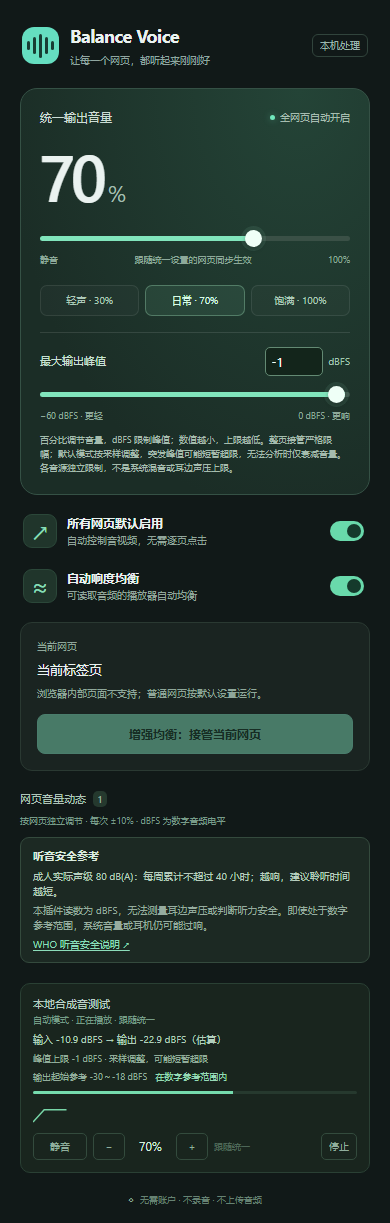
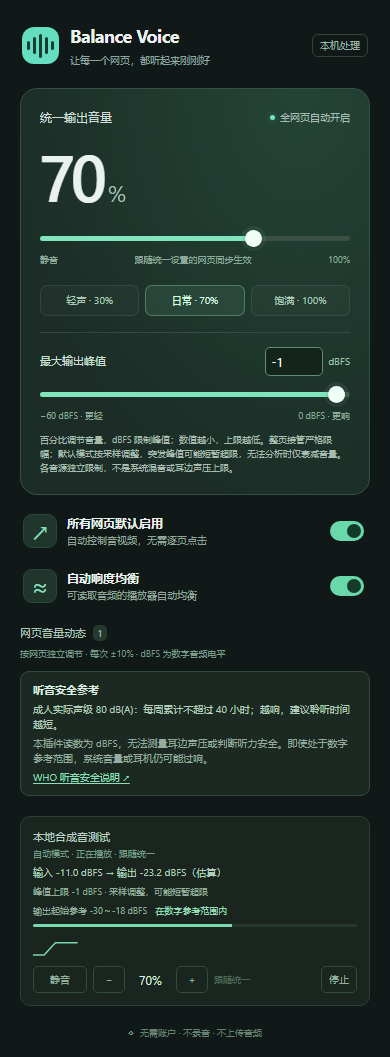
fix: hide redundant capture prompt in automatic mode

diff --git a/extension/popup.js b/extension/popup.js
@@ -55,13 +55,16 @@ function render(state) {
   }
   const enabled = state.sessions.some(session => session.tabId === currentTab?.id);
   const supported = /^https?:\/\//i.test(currentTab?.url || '');
+  // Default management is already enabled. Avoid offering a second enable action.
+  // Keep the card when a capture exists so users can always stop it.
+  document.querySelector('.current-card').hidden = state.settings.autoEnable && !enabled;
   $('status').textContent = state.settings.autoEnable ? '全网页自动开启'
     : state.sessions.length ? `${state.sessions.length} 个网页已接管` : '自动模式已关闭';
   document.querySelector('.live').classList.toggle('active', state.settings.autoEnable || state.sessions.length > 0);
   $('current-title').textContent = currentTab?.title || '当前标签页';
   $('current-hint').textContent = enabled
-    ? '整页音频均衡中，停止后回到默认模式。'
-    : supported ? state.settings.autoEnable ? '音视频默认自动控制；整页接管可处理 Web Audio。'
+    ? state.settings.autoEnable ? '整页音频均衡中，停止后回到默认模式。' : '整页音频均衡中，停止后恢复网页原始声音。'
+    : supported ? state.settings.autoEnable ? '网页状态和音量调节见下方列表。'
       : '默认模式已关闭，可开启或单独接管当前网页。' : '浏览器内部页面不支持；普通网页按默认设置运行。';
   $('toggle-current').textContent = enabled ? '停止整页接管' : '增强均衡：接管当前网页';
   $('toggle-current').classList.toggle('enabled', enabled);

diff --git a/extension/popup.html b/extension/popup.html
@@ -47,10 +47,10 @@
       <input class="switch" id="normalize" type="checkbox" role="switch" checked aria-label="自动响度均衡">
     </section>
 
-    <section class="current-card">
+    <section class="current-card" hidden>
       <div class="section-label">当前网页</div>
       <h2 id="current-title">正在读取网页…</h2>
-      <p id="current-hint">普通音视频默认自动控制；可选接管整页音频。</p>
+      <p id="current-hint">网页状态和音量调节见下方列表。</p>
       <button class="primary" id="toggle-current" disabled>增强均衡：接管当前网页</button>
     </section>
 

diff --git a/docs/USAGE.md b/docs/USAGE.md
@@ -10,15 +10,15 @@
 2. 点击「加载已解压的扩展程序」，选择本项目的 **`extension` 文件夹**。
 3. 在扩展菜单中固定 Balance Voice，打开一个正在播放声音的网页。
 4. 「所有网页默认启用」预设为开启，新网页里的普通音视频播放器会自动使用统一音量，无需逐页点击。
-5. 可在弹窗调整统一音量，或关闭「所有网页默认启用」。对于纯 Web Audio 页面，可使用「增强均衡：接管当前网页」。
+5. 可在弹窗调整统一音量，或关闭「所有网页默认启用」。对于纯 Web Audio 页面，可先关闭默认模式，再使用「增强均衡：接管当前网页」；接管后可重新开启默认模式。
 
-也可运行 `npm run package`，将 `dist/balance-voice-1.4.0.zip` 解压后加载。ZIP 不是可双击安装的签名 CRX。
+也可运行 `npm run package`，将 `dist/balance-voice-1.4.1.zip` 解压后加载。ZIP 不是可双击安装的签名 CRX。
 
 **从旧版升级**：在 `chrome://extensions/` 点击本扩展的重新加载按钮，随后刷新已打开的网页。新版增加普通网页音视频自动控制，Chrome 可能要求确认网站访问权限；需允许在所有网站运行，才能默认生效。
 
 ## 使用
 
-- **所有网页默认启用**：默认开启，作用于 HTTP / HTTPS 网页中的 HTML 音视频元素，包括动态插入的播放器、匹配的子框架和可发现的开放 Shadow DOM。关闭后恢复播放器此前的音量，不改变网页静音设置；重新开启立即生效。
+- **所有网页默认启用**：默认开启，作用于 HTTP / HTTPS 网页中的 HTML 音视频元素，包括动态插入的播放器、匹配的子框架和可发现的开放 Shadow DOM。开启时不再显示重复接管卡片，直接查看网页音量列表；已接管的当前网页仍显示停止入口。关闭后恢复播放器此前的音量，不改变网页静音设置；重新开启立即生效。
 - **统一输出音量**：0–100%，跟随统一设置的播放器和整页接管会话同步更新；0 为静音。设置保存在本机，重启浏览器后保留默认开关。已单独调过音量的网页保持自己的设定，可点击「跟随统一」恢复同步。
 - **最大输出峰值**：可用数字输入或滑块设置 **−60～0 dBFS**，默认 **−1 dBFS**；数值越负，上限越低。它限制数字信号的峰值幅度，不是百分比换算，也不是耳边分贝；列表原有输入/输出数值是 RMS，正弦音受到峰值限制时，其 RMS 通常还低约 3 dB。所有仍受管理的音源（包括独立音量网页）共用此上限，关闭响度均衡后限幅仍生效。设置保存在本机。
 - **上限的精度**：整页接管在音频线程逐渲染块前瞻限制采样峰值，降低上限从下一处理块生效；默认模式每约 100 ms 根据播放器采样峰值调节音量，背景计时器也可能延迟，无法严格拦截突发峰值。分析不可用或尚未开始时，按满刻度假设保守衰减播放器音量，不能验证实际峰值。此上限按音源独立生效，不限制多个音源/多个网页/系统其他应用混合后的总输出，系统音量、耳机放大或耳边声压也不受控制。需要严格限制某网页的数字采样峰值时，使用整页接管。

diff --git a/README.md b/README.md
@@ -8,7 +8,7 @@
 
 [![Chrome 116+](https://img.shields.io/badge/Chrome-116%2B-4285F4?logo=googlechrome&logoColor=white)](https://developer.chrome.com/docs/extensions/)
 [![Manifest V3](https://img.shields.io/badge/Manifest-V3-78DDBB)](extension/manifest.json)
-[![Version 1.4.0](https://img.shields.io/badge/version-1.4.0-344D42)](extension/manifest.json)
+[![Version 1.4.1](https://img.shields.io/badge/version-1.4.1-344D42)](extension/manifest.json)
 [![MIT License](https://img.shields.io/badge/license-MIT-78DDBB)](LICENSE)
 
 [快速安装](#快速安装) · [功能说明](docs/USAGE.md) · [反馈问题](https://github.com/tyrantqiao/balanceVoice/issues) · [推广文案](docs/PROMOTION.md)
@@ -56,13 +56,15 @@
 
 | | 默认自动模式 | 增强均衡：整页接管 |
 | --- | --- | --- |
-| 开启方式 | 默认开启，无需逐页点击 | 在目标网页点击一次接管 |
+| 开启方式 | 默认开启，无需逐页点击 | 关闭自动模式后，在目标网页点击接管 |
 | 处理范围 | 文档中的普通 HTML 音视频播放器 | 当前标签页完整音频，包括 Web Audio |
 | 响度均衡 | 可读取音频时自动分析并调整播放器音量 | 通过 AudioWorklet 处理 |
 | 分贝上限 | 约每 100 ms 采样调整，突发峰值可能短暂超限 | 音频线程限制数字采样峰值 |
 | 音频无法分析时 | 保守衰减播放器音量，不能验证峰值 | 捕获失败会显示错误 |
 
 百分比是播放增益，dBFS 是数字信号电平。**分贝上限按受管理音源独立生效，不是多个网页或系统混音后的总上限。** 停止管理的网页不再受扩展上限约束。
+
+默认模式开启时，面板直接展示网页音量列表，不再重复提示接管。需要整页接管时，可先关闭默认模式，手动接管后再重新开启默认模式；已接管网页仍保留停止入口。
 
 ## 关于听音安全与兼容性
 
@@ -95,7 +97,7 @@ npm run check
 npm run package
 ```
 
-打包结果为 `dist/balance-voice-1.4.0.zip`，解压后加载；它不是可双击安装的签名 CRX。
+打包结果为 `dist/balance-voice-1.4.1.zip`，解压后加载；它不是可双击安装的签名 CRX。
 
 浏览器集成测试默认使用 Windows 本机 Chrome，也可通过 `BROWSER_PATH` 指定浏览器路径。测试在独立临时配置中加载扩展，不使用个人浏览器配置；脚本使用实验性 DevTools 扩展接口，需浏览器支持。
 

diff --git a/docs/ACCEPTANCE.md b/docs/ACCEPTANCE.md
@@ -2,6 +2,11 @@
 
 以下项目需要在 Chrome 中验证；Node 测试不能代替真实的音频捕获和听音测试。
 
+## 默认模式界面（1.4.1）
+
+1. 默认启用时，普通网页不显示「接管当前网页」卡片或重复开启提示，直接查看网页音量动态列表。
+2. 关闭默认模式后显示当前网页的手动接管入口；已有整页接管时保留停止入口，重新打开默认模式也能停止已有接管。
+
 ## 数字标与分贝上限（1.4.0）
 
 1. 关闭弹窗，不调用整页接管，新打开普通音视频网页后工具栏显示 1；同页动态播放器和 iframe 不重复计数；第二个有播放器的网页显示 2。只有 iframe 含播放器时也应计数，移除最后一个播放器/iframe 后清除。
